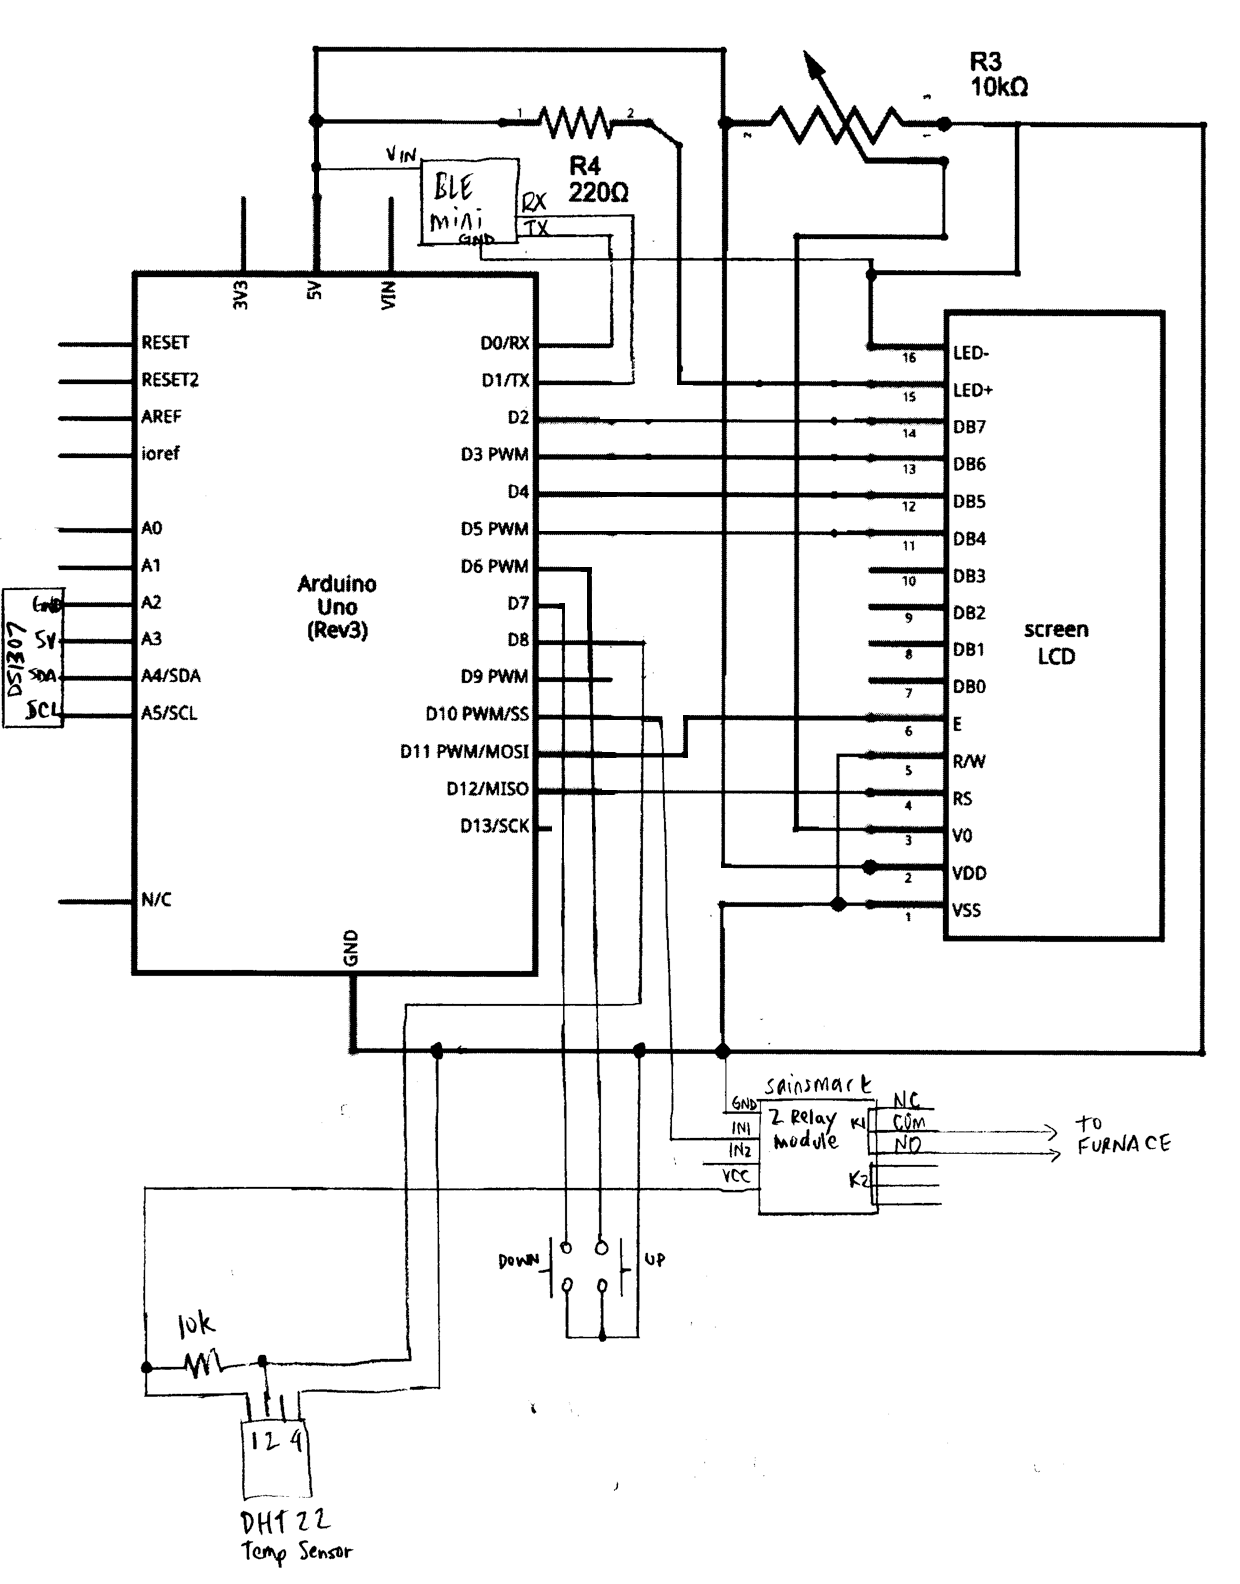
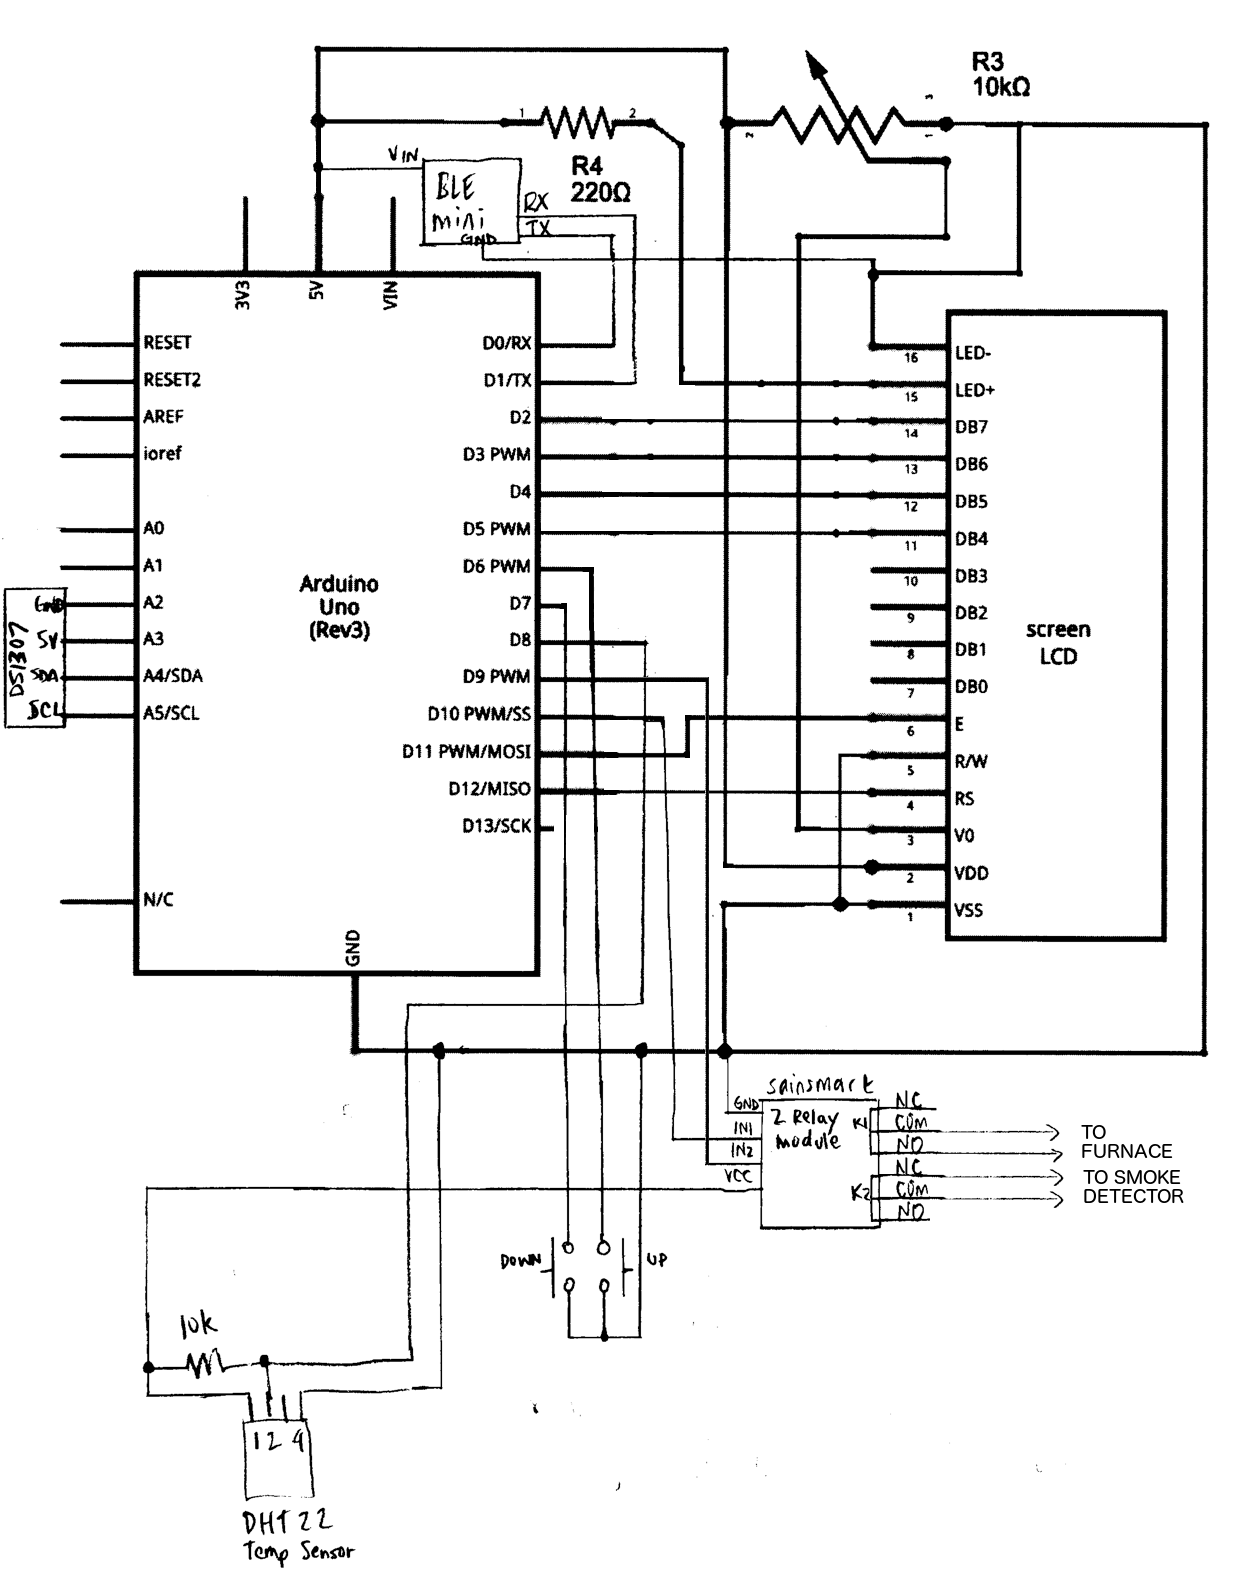
Added optional smoke alarm silencer feature

diff --git a/README.md b/README.md
@@ -1,5 +1,5 @@
 # Thermo
-Simple Bluetooth-controlled millivolt thermostat.
+Simple Bluetooth-controlled millivolt thermostat with optional smoke alarm silencer.
 
 Thermo is a simple app that demonstrates how you can program/control a millivolt thermostat using an Arduino and iOS app.
 
@@ -10,6 +10,7 @@ It has a few interesting features:
 * ability to set separate weekday and weekend schedules
 * LCD display showing the current state and physical manual override using two SPST switches
 * battery backed-up real-time clock and EEPROM to preserve the time and schedules when disconnected from power
+* optional smoke alarm silencer feature for houses with smoke alarms right beside the kitchen
 
 ## Hardware required
 * [Arduino Uno](http://arduino.cc/en/Main/arduinoBoardUno) (it will probably work with other variants, but I've only tested it with the Uno)
@@ -32,7 +33,7 @@ Here's the setup in my hall:
 
 ## Communications
 
-Communications from the iOS app to the Arduino is facilitated by the simple Tx/Rx interface exposed by the BLE Mini. Since the BLE mini is connected to digital pins 0 and 1 of the Arduino, serial port debugging is not possible when BLE comms are enabled. Similarly, you need to disconnect the BLE Mini from the Arduino when programming it via the USB cable.
+Communications from the iOS app to the Arduino is facilitated by the simple Tx/Rx interface exposed by the BLE Mini. Since the BLE mini is connected to digital pins 0 and 1 of the Arduino, serial port console output is not available when BLE comms are enabled. Similarly, you need to disconnect the BLE Mini from the Arduino when programming it via the USB cable.
 
 The format of request messages from the iOS app to the Arduino is:
 
@@ -48,15 +49,19 @@ The format of request messages from the iOS app to the Arduino is:
 
 Response messages have the following format:
 
+```
+[ sig ][seq][resp code][data len][ ... data ... ]
+```
+
 * response signature (1 byte)
 * sequence number (1 byte)
 * response code (1 byte) - kResponse* in ```shared_protocol.h```
 * data length (1 byte)
 * optional data (N bytes)
 
-There are two shared header files between the various components:
+There are two header files shared between the iOS app and Arduino sketch:
 
-* ```shared_key.h```: defines the 4-byte shared key between the Arduino sketch and iOS app.  An additional 4-byte partial key is fetched before any control command is sent from the app.
+* ```shared_key.h```: defines the 4-byte shared key. An additional 4-byte partial key is fetched before any control command is sent from the app.
 * ```shared_protocol.h```: defines the 1-byte commands that are sent from the iOS app to the Arduino as well as the various response codes and some misc #defines.
 
 ## Dependencies
@@ -71,10 +76,22 @@ Arduino libraries:
 * [DHT](https://github.com/adafruit/DHT-sensor-library)
 * [EEPROM](https://www.arduino.cc/en/Reference/EEPROM)
 
+## External wiring
+
+To function, the normally open (NO) contacts of the main relay (K1) need to be connected in series between the millivolt output of the thermopile (in the pilot light of the gas furnace) and the solenoid of the gas control valve.
+
+To use the optional smoke alarm silencer, wire the normally closed (NC) contacts of the second relay (K2) in series betwen the smoke alarm and its battery (this will likely involve cutting a trace or power wire in the smoke detector).
+
 ## Usage
 
-Here's a couple of screenshots from the iOS app. After connecting by pressing the bluetooth icon, the dial allows one to change the override temperature (via kCmdSetTargetTemp). Pressing the schedule icon at the bottom opens the weekday/weekend scheduler. Schedules are read using kCmdGetWeekdayTempSchedule/kCmdGetWeekendTempSchedule and updated using kCmdSetWeekdayTempSchedule/kCmdSetWeekendTempSchedule.
+Here's a couple of screenshots from the iOS app:
 
 ![iOS app](thermo_ios_main.png)
 ![iOS app](thermo_ios_schedule.png)
+
+After connecting by pressing the bluetooth icon, the dial allows one to change the override temperature (via kCmdSetTargetTemp). Pressing the schedule icon at the bottom opens the weekday/weekend scheduler. Schedules are read using kCmdGetWeekdayTempSchedule/kCmdGetWeekendTempSchedule and updated using kCmdSetWeekdayTempSchedule/kCmdSetWeekendTempSchedule.
+
+Manually overriding the temperature can also be accomplished by pressing the DOWN or UP SPST switches on the circuit board. 
+
+If using the optional smoke alarm silencer, pressing UP and DOWN at the same time will energize K2 for 5 minutes. No mechanism to silence the smoke alarm is exposed via the BLE interface/iOS app.
 
